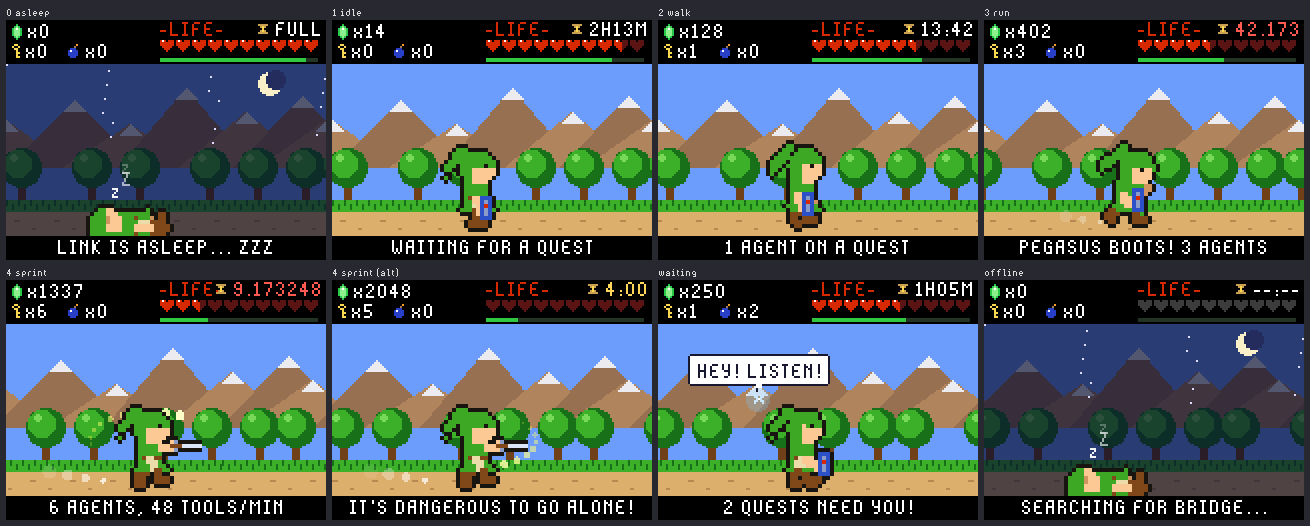
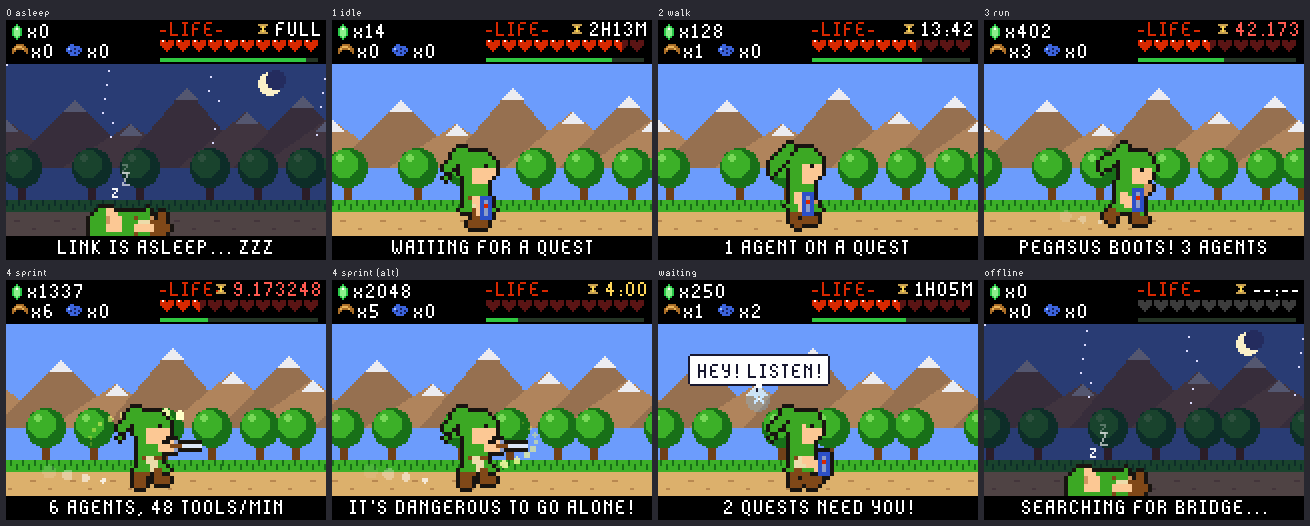
Hero theme: boomerang for working agents, ocarina for waiting sessions
The key (agents working) and bomb (sessions waiting) did not fit the theme:
a bomb says danger, not "your turn". Use a boomerang, which is thrown out
and comes back with a result, for busy agents, and an ocarina, the item you
play when it is your move, for sessions waiting on you. Document the three
top-left counters and refresh the simulator sheet.

diff --git a/badge/apps/hearts_left/theme_hero.py b/badge/apps/hearts_left/theme_hero.py
@@ -5,7 +5,8 @@
 #   run    -> Pegasus-boots dash, dust flying
 #   sprint -> dashing with sword out, spin attacks
 # Hearts are the 5-hour budget, the magic meter is the weekly budget, rupees
-# count today's tool calls and keys count busy agents. Navi shows up shouting
+# count today's tool calls, boomerangs count busy agents and the ocarina counts
+# sessions waiting for you. Navi shows up shouting
 # "HEY! LISTEN!" when a session is waiting for you.
 
 import math
@@ -56,8 +57,10 @@ SPEC = F.Spec(w=26, h=26, head_r=4, torso=4, torso_w=6, thigh=3, shin=3, upper=3
               thighs=F.BOT, shins=F.SHOE, uppers=F.TOP, forearms=F.SKIN, foot=2, extra=_props)
 
 RUPEE = ("..G..", ".GgG.", "GgWgG", "GgggG", "GgggG", "GgggG", ".GgG.", "..G..")
-KEY = (".YY.", "Y..Y", ".YY.", "..Y.", "..YY", "..Y.", "..YY")
-BOMB = ("....o", "...K.", ".BBB.", "BWBBB", "BBBBB", "BBBBB", ".BBB.")
+# boomerang = agents out working (thrown, and comes back with the result)
+BOOMERANG = ("..OOOO..", ".OLLLOO.", "OLOOOLOO", "OO....OO", "O......O")
+# ocarina = a session is waiting for you to play your part
+OCARINA = ("..BB....", ".BBBBBB.", "BLBBHBBB", "BBHBBBHB", ".BBBHBB.", "..BBBB..")
 FAIRY = ("w...w", "ww.ww", ".wCw.", "ww.ww", "w...w")
 HOURGLASS = ("KKKKK", ".KSK.", "..S..", ".KSK.", "KKKKK")
 
@@ -82,8 +85,8 @@ class Theme(S.Theme):
         self.hearts = gfx.heart_set(RED, DARK_RED, BLACK)
         self.hearts_grey = gfx.heart_set((120, 120, 120), (60, 60, 60), BLACK)[2]
         self.rupee = gfx.sprite(RUPEE, {"G": (40, 200, 72), "g": (140, 240, 140), "W": WHITE})
-        self.key = gfx.sprite(KEY, {"Y": GOLD})
-        self.bomb = gfx.sprite(BOMB, {"B": (40, 64, 200), "W": WHITE, "K": (160, 120, 80), "o": (252, 160, 40)})
+        self.boomerang = gfx.sprite(BOOMERANG, {"O": (170, 110, 40), "L": (235, 180, 90)})
+        self.ocarina = gfx.sprite(OCARINA, {"B": (60, 100, 220), "L": (160, 195, 255), "H": (20, 30, 90)})
         self.fairy = gfx.sprite(FAIRY, {"w": (200, 230, 255), "C": WHITE})
         self.clock = gfx.sprite(HOURGLASS, {"K": (200, 160, 80), "S": GOLD})
 
@@ -220,10 +223,10 @@ class Theme(S.Theme):
         gfx.box(0, 0, 160, 22, BLACK)
         screen.blit(self.rupee, vec2(3, 2))
         gfx.text("x%d" % min(st.tools, 9999), 10, -1, WHITE, font.sins)
-        screen.blit(self.key, vec2(3, 12))
-        gfx.text("x%d" % st.busy, 9, 9, WHITE, font.sins)
-        screen.blit(self.bomb, vec2(31, 12))
-        gfx.text("x%d" % st.waiting, 39, 9, WHITE, font.sins)
+        screen.blit(self.boomerang, vec2(3, 12))
+        gfx.text("x%d" % st.busy, 12, 9, WHITE, font.sins)
+        screen.blit(self.ocarina, vec2(30, 12))
+        gfx.text("x%d" % st.waiting, 40, 9, WHITE, font.sins)
 
         gfx.text("-LIFE-", 76, -2, RED, font.sins)
         # time until the hearts refill (the 5-hour window resets)

diff --git a/README.md b/README.md
@@ -109,6 +109,9 @@ audience votes "YOUR MOVE!", or Forrest yells "JENNY!". The badge's four case LE
 
 ### Usage meters
 
+In the Zelda theme the three counters at the top left are: green gem = tool calls today,
+boomerang = agents working right now, ocarina = sessions waiting for you.
+
 Every theme shows the 5-hour limit as ten icons, the weekly limit as a bar, and a countdown
 to the next 5-hour reset. Each icon is 10% of the limit left and a half icon is 5%. The icons
 flash once less than 20% is left.
